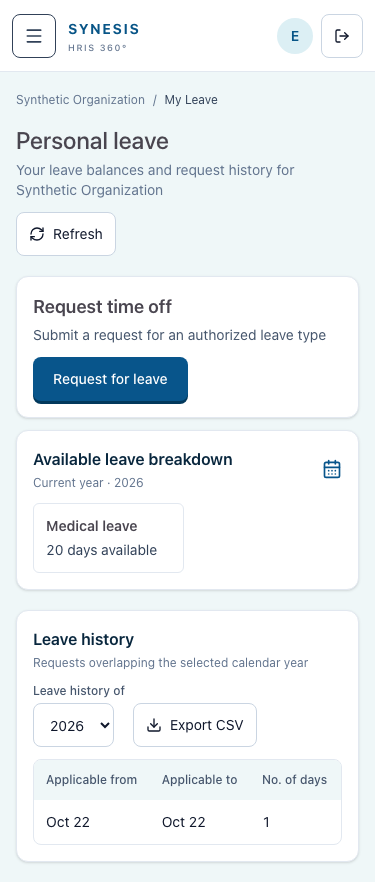
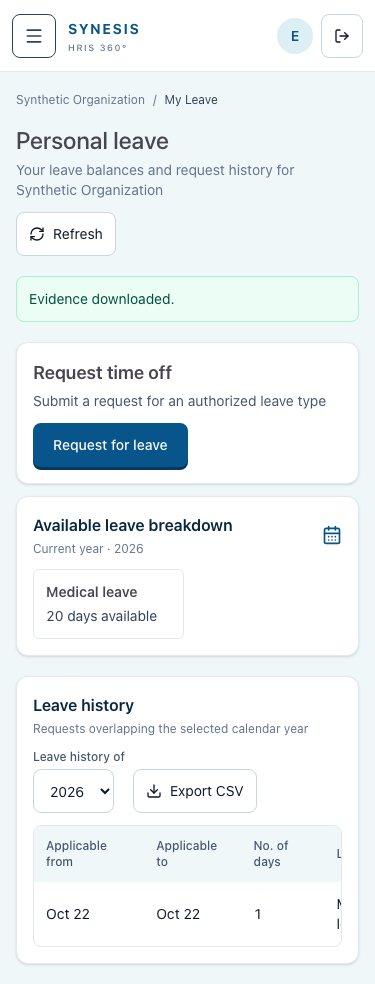
feat(hris): restore employee leave evidence history

diff --git a/src/live/LiveHrisWorkspace.tsx b/src/live/LiveHrisWorkspace.tsx
@@ -1453,8 +1453,13 @@ function EmployeePersonalLeave({ tenantId, userId, tenantName }: { tenantId: str
   const [leave, setLeave] = useState<Record<string, unknown> | null>(null);
   const [loading, setLoading] = useState(true);
   const [error, setError] = useState('');
+  const [evidenceError, setEvidenceError] = useState('');
+  const [evidenceMessage, setEvidenceMessage] = useState('');
+  const [downloadingEvidenceId, setDownloadingEvidenceId] = useState('');
   const [historyYear, setHistoryYear] = useState('');
   const requestSequence = useRef(0);
+  const activeTenantId = useRef(tenantId);
+  activeTenantId.current = tenantId;
 
   async function load(showLoading = true) {
     const requestId = ++requestSequence.current;
@@ -1478,6 +1483,9 @@ function EmployeePersonalLeave({ tenantId, userId, tenantName }: { tenantId: str
   useEffect(() => {
     setLeave(null);
     setHistoryYear('');
+    setEvidenceError('');
+    setEvidenceMessage('');
+    setDownloadingEvidenceId('');
     void load();
     return () => { requestSequence.current += 1; };
   }, [tenantId]);
@@ -1499,6 +1507,50 @@ function EmployeePersonalLeave({ tenantId, userId, tenantName }: { tenantId: str
     const last = Number(String(row.to_date || '').slice(0, 4));
     return Number.isInteger(first) && Number.isInteger(last) && first <= yearNumber && last >= yearNumber;
   });
+  const historyHasEvidence = history.some(row => String(row.attachment_url || '').trim());
+
+  async function downloadHistoryEvidence(row: Record<string, unknown>) {
+    const id = String(row.id || '');
+    const objectPath = String(row.attachment_url || '').trim();
+    const parts = objectPath.split('/');
+    const extension = parts.at(-1)?.split('.').at(-1)?.toLowerCase() || '';
+    if (!id || parts.length !== 3 || parts.some(part => !part || part === '.' || part === '..')
+        || parts[0] !== userId || parts[1] !== tenantId
+        || !/^[0-9a-f-]{36}\.(pdf|doc|docx|jpg|png)$/i.test(parts[2])) {
+      setEvidenceMessage('');
+      setEvidenceError('This evidence reference is not valid for your active organization.');
+      return;
+    }
+    if (downloadingEvidenceId) return;
+    const actionTenantId = tenantId;
+    setDownloadingEvidenceId(id);
+    setEvidenceError('');
+    setEvidenceMessage('');
+    try {
+      // The signed-in Storage client enforces the existing private bucket owner policy.
+      const { data: file, error: storageError } = await supabase.storage.from('leave-evidence').download(objectPath);
+      if (storageError) throw storageError;
+      if (!file) throw new Error('The evidence file was not returned.');
+      if (activeTenantId.current !== actionTenantId) return;
+      const objectUrl = URL.createObjectURL(file);
+      const anchor = document.createElement('a');
+      anchor.href = objectUrl;
+      anchor.download = `personal-leave-evidence-${id.slice(0, 8)}.${extension}`;
+      anchor.rel = 'noopener';
+      anchor.style.display = 'none';
+      document.body.appendChild(anchor);
+      anchor.click();
+      anchor.remove();
+      window.setTimeout(() => URL.revokeObjectURL(objectUrl), 60_000);
+      setEvidenceMessage('Evidence downloaded.');
+    } catch (cause) {
+      if (activeTenantId.current === actionTenantId) {
+        setEvidenceError(cause instanceof Error ? cause.message : 'Unable to download your private evidence.');
+      }
+    } finally {
+      if (activeTenantId.current === actionTenantId) setDownloadingEvidenceId('');
+    }
+  }
 
   function downloadHistory() {
     downloadCsv(`personal-leave-history-${selectedYear}.csv`,
@@ -1517,6 +1569,8 @@ function EmployeePersonalLeave({ tenantId, userId, tenantName }: { tenantId: str
       </button>
     </div>
     {error && <StatusMessage error={error} onRetry={() => void load()} />}
+    {evidenceError && <p role="alert" className="rounded-lg border border-rose-200 bg-rose-50 p-3 text-sm text-rose-900">{evidenceError}</p>}
+    {evidenceMessage && <p role="status" className="rounded-lg border border-emerald-200 bg-emerald-50 p-3 text-sm text-emerald-900">{evidenceMessage}</p>}
     {(loading || (!currentTenantDataReady && !error)) && <p role="status" className="rounded-lg border bg-white p-5 text-sm">Loading your leave information…</p>}
     {currentTenantDataReady && leave && <>
       <div className="grid min-w-0 gap-3 md:grid-cols-[minmax(210px,0.7fr)_minmax(0,2fr)]">
@@ -1551,9 +1605,9 @@ function EmployeePersonalLeave({ tenantId, userId, tenantName }: { tenantId: str
           </div>
         </div>
         {history.length ? <div role="region" aria-label="Personal leave history" tabIndex={0} className="overflow-x-auto rounded-lg border border-slate-200 focus-visible:outline-2 focus-visible:outline-[#085587]">
-          <table aria-label={`Personal leave history for ${selectedYear}`} className="w-full min-w-[720px] text-left text-sm">
+          <table aria-label={`Personal leave history for ${selectedYear}`} className={`w-full ${historyHasEvidence ? 'min-w-[860px]' : 'min-w-[720px]'} text-left text-sm`}>
             <thead className="bg-[#EFF7F8] text-xs text-slate-600"><tr>
-              {['Applicable from', 'Applicable to', 'No. of days', 'Leave type', 'Remarks', 'Status'].map(label => <th key={label} scope="col" className="px-3 py-3 font-medium">{label}</th>)}
+              {['Applicable from', 'Applicable to', 'No. of days', 'Leave type', 'Remarks', 'Status', ...(historyHasEvidence ? ['Evidence'] : [])].map(label => <th key={label} scope="col" className="px-3 py-3 font-medium">{label}</th>)}
             </tr></thead>
             <tbody className="divide-y divide-slate-100">{history.map((row, index) => {
               const status = String(row.status || '').toLowerCase();
@@ -1567,6 +1621,13 @@ function EmployeePersonalLeave({ tenantId, userId, tenantName }: { tenantId: str
                 <td className="max-w-56 px-3 py-3"><span className="block truncate" title={String(row.reason || '')}>{display(row.reason)}</span>
                   {Boolean(row.resolution_note) && <span className="block truncate text-xs text-slate-500">{display(row.resolution_note)}</span>}</td>
                 <td className={`whitespace-nowrap px-3 py-3 font-semibold capitalize ${statusClass}`}>{display(row.status)}</td>
+                {historyHasEvidence && <td className="px-3 py-3">{String(row.attachment_url || '').trim()
+                  ? <button type="button" disabled={Boolean(downloadingEvidenceId)}
+                      aria-label={`Download evidence for ${display(row.leave_type_name)} leave request`}
+                      onClick={() => void downloadHistoryEvidence(row)}
+                      className="min-h-10 whitespace-nowrap rounded-md border border-slate-300 bg-white px-3 text-xs font-medium text-slate-800 disabled:opacity-50">
+                      {downloadingEvidenceId === row.id ? 'Downloading…' : 'Download evidence'}
+                    </button> : '—'}</td>}
               </tr>;
             })}</tbody>
           </table>

diff --git a/tests/browser/employee-leave.spec.ts b/tests/browser/employee-leave.spec.ts
@@ -26,6 +26,9 @@ function isoDateAfter(days: number) {
 test('linked employee can complete the private evidence leave request on mobile', async ({ page }) => {
   let authenticated = false;
   let submitted = false;
+  let savedEvidencePath = '';
+  let denyNextEvidenceDownload = true;
+  const evidenceDownloadPaths: string[] = [];
   let correctionSubmitted = false;
   let correctionPayload: Record<string, unknown> | null = null;
   let attendanceState: 'not-started' | 'checked-in' | 'checked-out' = 'not-started';
@@ -74,6 +77,7 @@ test('linked employee can complete the private evidence leave request on mobile'
         id: 'f5555555-5555-4555-8555-555555555555', leave_type_id: leaveTypeId,
         leave_type_name: 'Medical leave', from_date: isoDateAfter(9), to_date: isoDateAfter(9),
         requested_days: 1, reason: 'Synthetic mobile leave request', status: 'pending',
+        attachment_url: savedEvidencePath,
       }, {
         id: 'f9999999-9999-4999-8999-999999999999', leave_type_id: leaveTypeId,
         leave_type_name: 'Medical leave', from_date: '2025-08-13', to_date: '2025-08-14',
@@ -142,6 +146,20 @@ test('linked employee can complete the private evidence leave request on mobile'
   });
 
   await page.route('**/storage/v1/object/leave-evidence/**', async route => {
+    const request = route.request();
+    const url = new URL(request.url());
+    const path = decodeURIComponent(url.pathname.split('/object/leave-evidence/')[1] || '');
+    if (request.method() === 'GET') {
+      evidenceDownloadPaths.push(path);
+      if (denyNextEvidenceDownload) {
+        denyNextEvidenceDownload = false;
+        await route.fulfill({ status: 403, contentType: 'application/json', body: JSON.stringify({ message: 'Evidence access denied in isolated UI test.' }) });
+        return;
+      }
+      await route.fulfill({ status: 200, contentType: 'application/pdf', body: '%PDF-1.4 synthetic evidence download' });
+      return;
+    }
+    if (request.method() === 'POST') savedEvidencePath = path;
     await route.fulfill({ status: 200, contentType: 'application/json', body: JSON.stringify({ Key: 'synthetic-evidence' }) });
   });
 
@@ -246,7 +264,17 @@ test('linked employee can complete the private evidence leave request on mobile'
   await expect(page.getByRole('heading', { name: 'Personal leave' })).toBeVisible();
   await expect(page.getByRole('heading', { name: 'Available leave breakdown' })).toBeVisible();
   const history = page.getByRole('table', { name: `Personal leave history for ${new Date().getFullYear()}` });
-  await expect(history.getByRole('row', { name: /Synthetic mobile leave request/ })).toContainText(/pending/i);
+  const submittedHistoryRow = history.getByRole('row', { name: /Synthetic mobile leave request/ });
+  await expect(submittedHistoryRow).toContainText(/pending/i);
+  await expect(submittedHistoryRow.getByRole('button', { name: 'Download evidence' })).toBeVisible();
+  await submittedHistoryRow.getByRole('button', { name: 'Download evidence' }).click();
+  await expect(page.getByRole('alert')).toContainText('Evidence access denied in isolated UI test.');
+  const evidenceDownload = page.waitForEvent('download');
+  await submittedHistoryRow.getByRole('button', { name: 'Download evidence' }).click();
+  expect((await evidenceDownload).suggestedFilename()).toBe('personal-leave-evidence-f5555555.pdf');
+  expect(savedEvidencePath).toMatch(new RegExp(`^${userId}/${tenantId}/[0-9a-f-]{36}\\.pdf$`, 'i'));
+  expect(evidenceDownloadPaths).toEqual([savedEvidencePath, savedEvidencePath]);
+  await expect(page.getByRole('status').filter({ hasText: 'Evidence downloaded.' })).toBeVisible();
   await expect(history.getByRole('row', { name: /Synthetic prior-year leave request/ })).toHaveCount(0);
   await page.getByLabel('Leave history of').selectOption('2025');
   const priorYearHistory = page.getByRole('table', { name: 'Personal leave history for 2025' });
@@ -265,5 +293,11 @@ test('linked employee can complete the private evidence leave request on mobile'
   expect(await page.evaluate(() => document.documentElement.scrollWidth)).toBeLessThanOrEqual(376);
   await expect(page.getByRole('region', { name: 'Personal leave history' })).toBeVisible();
   await page.screenshot({ path: path.resolve(process.cwd(), 'docs/evidence/personal-leave-mobile-20261012.png'), fullPage: true });
+  const mobileEvidenceRow = page.getByRole('table', { name: `Personal leave history for ${new Date().getFullYear()}` })
+    .getByRole('row', { name: /Synthetic mobile leave request/ });
+  await expect(mobileEvidenceRow.getByRole('button', { name: 'Download evidence' })).toBeVisible();
+  const mobileEvidenceDownload = page.waitForEvent('download');
+  await mobileEvidenceRow.getByRole('button', { name: 'Download evidence' }).click();
+  expect((await mobileEvidenceDownload).suggestedFilename()).toBe('personal-leave-evidence-f5555555.pdf');
   expect(externalRequests).toEqual([]);
 });
